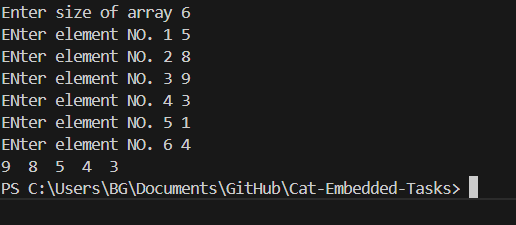
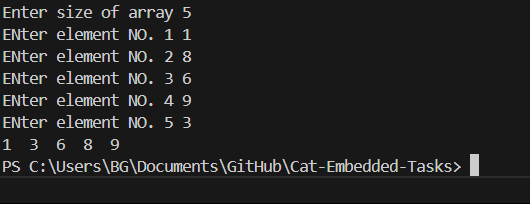
W.05

Changed region(s): [[0.0, 0.0, 0.9302, 0.8824]]

diff --git a/W.05/4.c b/W.05/4.c
@@ -6,7 +6,7 @@ int bubble_sort(int *arr,int N){
     for(int i=0;i<N-1;i++){
     
         for(int j=0;j<N-i-1;j++){
-            if ( *(arr+j) < *(arr+j+1)){
+            if ( *(arr+j) > *(arr+j+1)){
     temp=*(arr+j);
     *(arr+j) = *(arr+j+1);
     *(arr+j+1) = temp;
